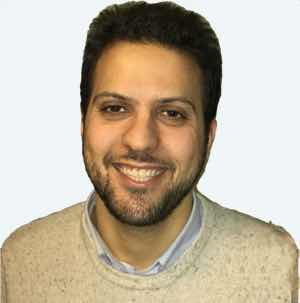
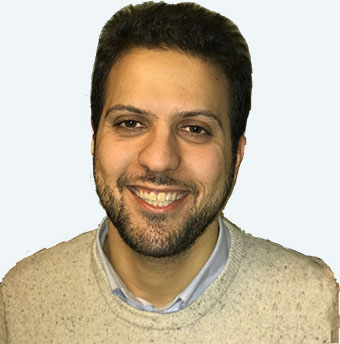
Updated footer and better quality pic

diff --git a/_layouts/default.html b/_layouts/default.html
@@ -46,14 +46,9 @@
     <footer>
         <section>
         <p>
-            Paid for by Friends for Rashid. 
-        </p>
-        <p>
-            A copy of our report filed with the State Board of Elections is (or will be) available on the Board’s official website (www.elections.il.gov) or for purchase from the State Board of Elections, Springfield, Illinois. 
-        </p>
-        <p>
+            Paid for by Friends for Rashid. A copy of our report filed with the State Board of Elections is (or will be) available on the Board’s official website (www.elections.il.gov) or for purchase from the State Board of Elections, Springfield, Illinois. 
             Contributions are not tax deductible.
-        </p>
+</p>
       </section>
     </footer>
   </body>

diff --git a/css/styles.scss b/css/styles.scss
@@ -69,7 +69,7 @@ footer {
   text-align: center;
 
   section {
-    max-width: 500px;
+    max-width: 600px;
     margin: 0 auto;
     padding: 10px;
   }
